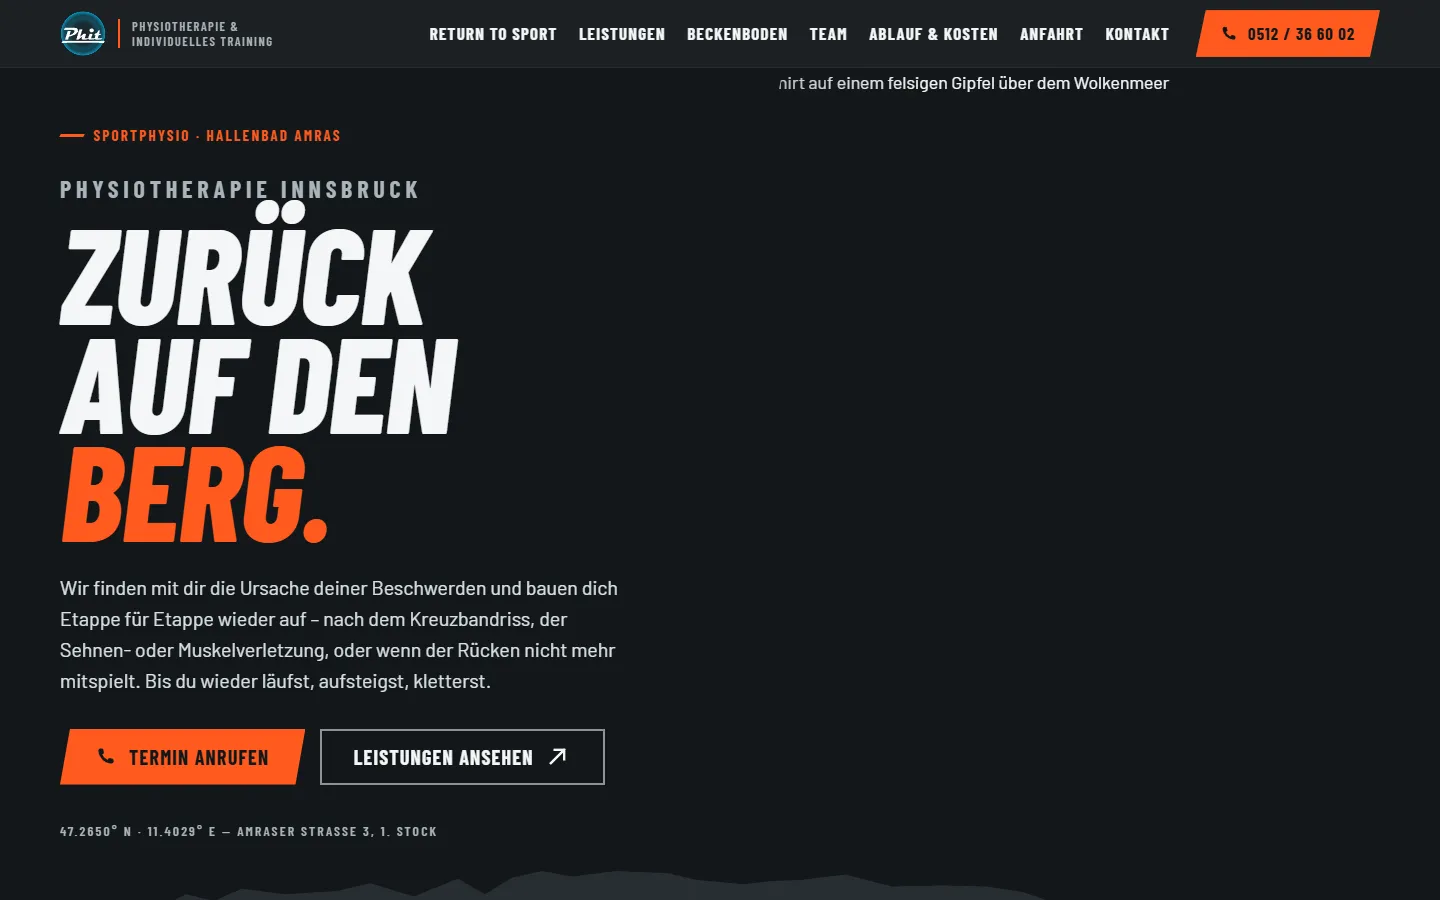
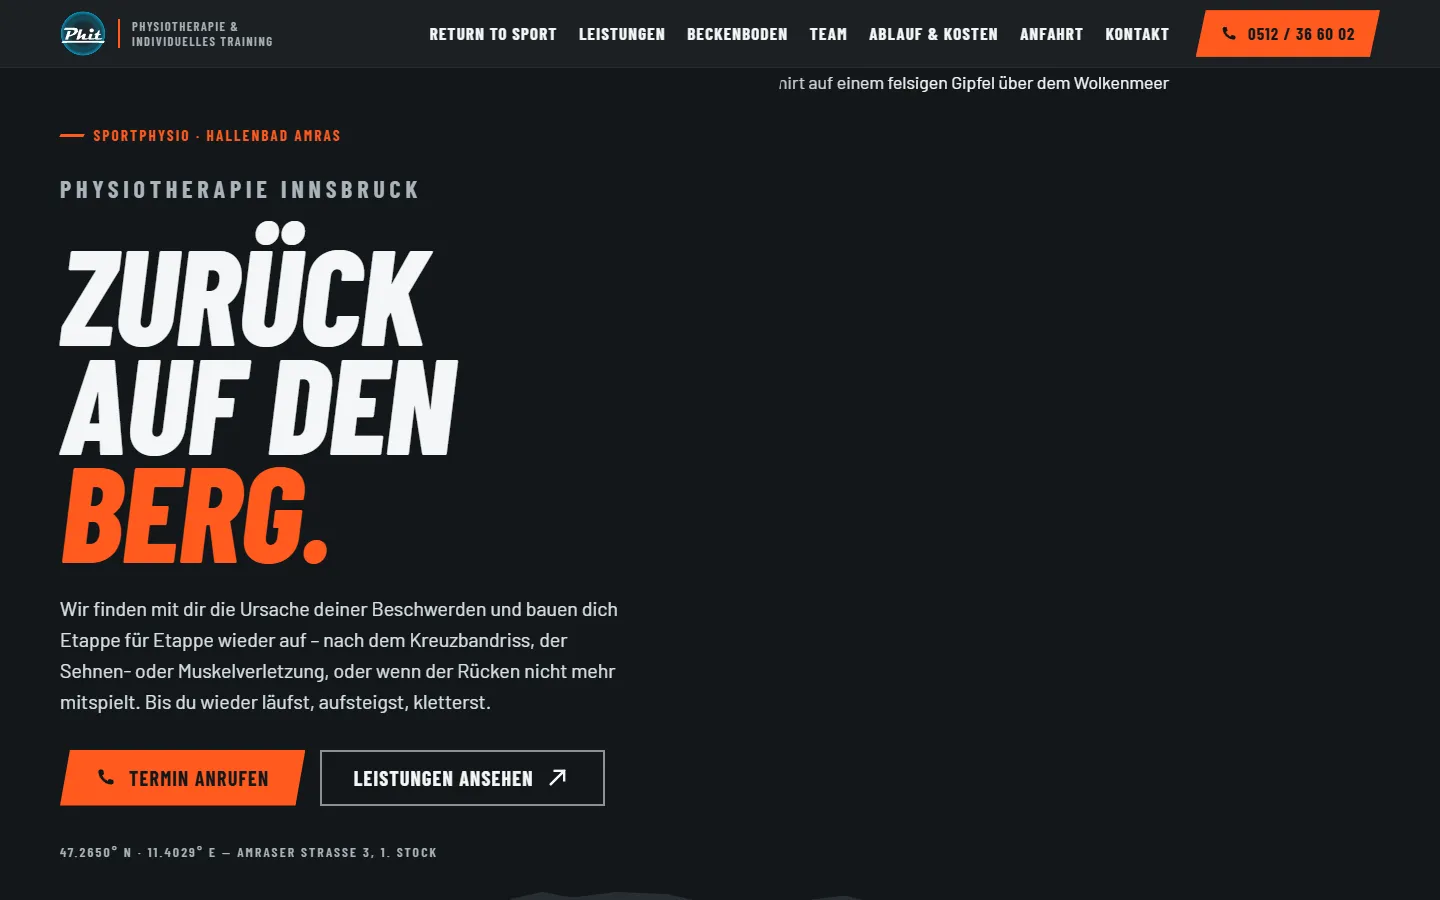
Variante 4: Abstand Hero-Kicker

Changed region(s): [[0.0312, 0.2178, 0.4375, 0.9644], [0.4688, 0.9644, 0.5, 1.0], [0.5312, 0.9644, 0.5625, 0.9956]]

diff --git a/variante-4-alpin/css/style.css b/variante-4-alpin/css/style.css
@@ -232,7 +232,7 @@ main > section:has(+ .diag), main > section:has(+ .place), main > section:last-c
 .hero__inner { position: relative; z-index: 2; margin-top: 1.4rem; }
 .hero__tag { margin-bottom: 1.4rem; }
 .hero__title { font-family: var(--f-display); text-transform: uppercase; }
-.hero__kicker { display: block; font-weight: 700; font-style: normal; font-size: clamp(1.05rem, .9rem + .7vw, 1.5rem); letter-spacing: .2em; color: var(--mist); margin-bottom: .55rem; }
+.hero__kicker { display: block; font-weight: 700; font-style: normal; font-size: clamp(1.05rem, .9rem + .7vw, 1.5rem); letter-spacing: .2em; color: var(--mist); margin-bottom: clamp(1.1rem, .6rem + 1.4vw, 2rem); }
 .hero__claim { display: block; font-weight: 800; font-style: italic; font-size: clamp(4.1rem, 1.6rem + 12vw, 10.6rem); line-height: .8; letter-spacing: -.01em; }
 .hero__claim .line { display: block; }
 .hero__claim .hl { color: var(--glow); }
